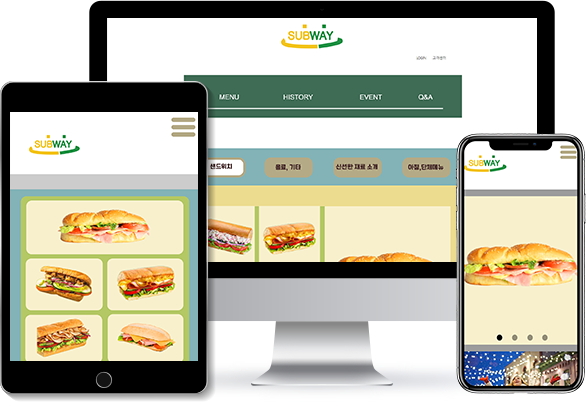
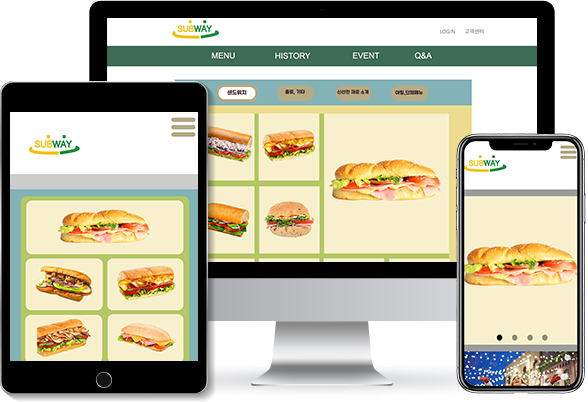
6차 개인 포트폴리오 사이트 코딩 업로드
6차 개인 포트폴리오 사이트 코딩 업로드

Changed region(s): [[0.1837, 0.0597, 0.9184, 0.6567]]

diff --git a/css/main.css b/css/main.css
@@ -194,7 +194,7 @@ body {
 .header-main {
     position: relative;
     display: block;
-    margin-top: 2.8rem;
+    margin-top: 3.2rem;
     margin-right: 4.5rem;
 }
 
@@ -205,7 +205,7 @@ body {
 }
 
 .header-main>li>a {
-    font-size: 2.4rem;
+    font-size: 2rem;
     font-weight: 600;
     line-height: 1.25;
     margin-right: 3rem;
